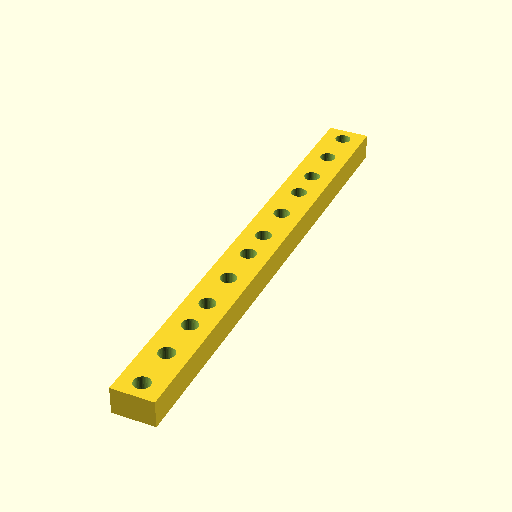
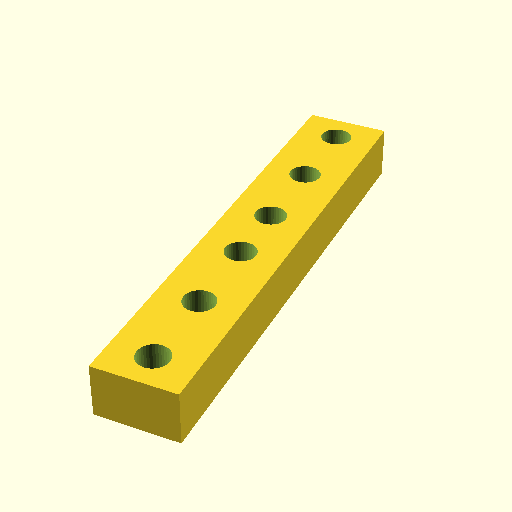
chore: Make it shorter

Changed region(s): [[0.1562, 0.2188, 0.75, 0.875]]

diff --git a/cmd/render/render.go b/cmd/render/render.go
@@ -39,7 +39,7 @@ func (render *RenderCmd) Run(globals *globals.Globals) error {
 	}
 	bufferedOutput := bufio.NewWriter(output)
 
-	shape := rack.MakeRack(4)
+	shape := rack.MakeRack(2)
 	err = shapes.ResolveAnchors(shape.Segments[0])
 	if err != nil {
 		return fmt.Errorf("failed to resolve anchors: %w", err)
